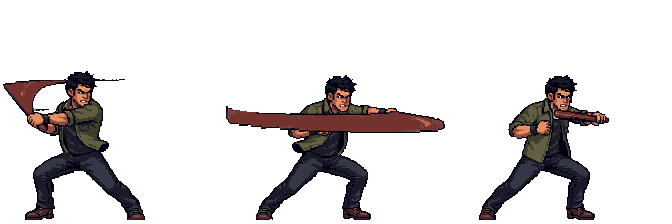
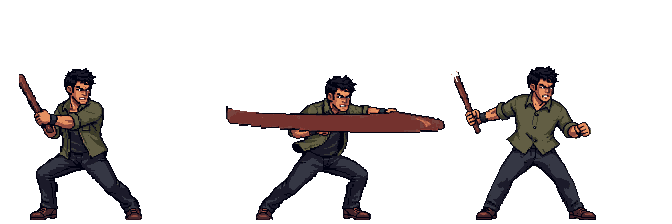
Polish skill animations: animated VFX sheets and cleaner poses
Effects for six skills are now real PixelLab frame animations (bird wing
beats, naga fire, running tiger, rock burst, Yama explosion, tornado)
instead of still images. The double-slash skill now really swings back
right to left, the leap's fall/landing frames were replaced and the grey
smear removed, skills leave short afterimages, and effects show from the
impact frame.

Claude-Session: https://claude.ai/code/session_01PSBtvsuZFS3pknb8ULkNKy

diff --git a/web/game.js b/web/game.js
@@ -55,6 +55,7 @@
     const names = new Set([M.background, M.portrait, M.monster.image]);
     for (const a of Object.values(M.player.anims)) names.add(a.image);
     for (const v of Object.values(M.vfx)) names.add(v);
+    for (const v of Object.values(M.vfxAnim)) names.add(v.image);
     return Promise.all([...names].map((src) => new Promise((res, rej) => {
       const img = new Image();
       img.onload = () => { images[src] = img; res(); };
@@ -213,6 +214,7 @@
       queued: false, hitDone: false, sinceAttack: 99,
       hurtT: 0, invulnT: 0,
       skill: null,          // skill being cast: { def, t, hitIdx, ... }
+      ghosts: [], ghostT: 0, // afterimages left behind while casting
     };
   }
 
@@ -838,30 +840,37 @@
     state.shots = state.shots.filter((s) => !s.done);
   }
 
+  // Effects are PixelLab sprite sheets (M.vfxAnim) played frame by frame, with a little
+  // scale/fade tweening on top; keys without a sheet fall back to the still image.
   function drawVfx(camX, layer) {
     for (const v of state.vfx) {
       if ((v.key === "storm") !== (layer === "back")) continue;
-      const img = images[M.vfx[v.key]];
+      const anim = M.vfxAnim[v.key];
+      const img = images[anim ? anim.image : M.vfx[v.key]];
       if (!img) continue;
+      const fw = anim ? anim.frameW : img.width, fh = anim ? anim.frameH : img.height;
       const k = v.t / v.life;
+      let frame = 0;
+      if (anim) frame = anim.loop ? Math.floor(v.t * anim.fps) % anim.frames : Math.min(anim.frames - 1, Math.floor(k * anim.frames));
       const ease = 1 - Math.pow(1 - Math.min(1, k * 1.6), 3);
       const sc = v.s0 + (v.s1 - v.s0) * ease;
-      let alpha = k < 0.12 ? k / 0.12 : k > 0.65 ? 1 - (k - 0.65) / 0.35 : 1;
-      if (v.flicker) alpha *= 0.82 + 0.18 * Math.sin(v.t * 60);
+      // effects appear at once (they spawn on the impact freeze), then fade out
+      let alpha = k < 0.1 ? 0.6 + (k / 0.1) * 0.4 : k > 0.7 ? 1 - (k - 0.7) / 0.3 : 1;
+      if (v.flicker && !anim) alpha *= 0.82 + 0.18 * Math.sin(v.t * 60);
       ctx.save();
       ctx.translate(Math.round(v.x - camX), Math.round(v.y));
       if (v.rot) ctx.rotate(v.rot);
-      const sx = (v.stretch ? sc : Math.max(0.4, sc)) * v.flip * (v.key === "storm" && Math.floor(v.t * 16) % 2 ? -1 : 1);
+      const sx = (v.stretch ? sc : Math.max(0.4, sc)) * v.flip;
       const sy = v.stretch ? Math.min(1.2, 0.7 + sc * 0.3) : sc;
       ctx.scale(sx, sy);
-      const ox = v.anchor === "left" ? 0 : -img.width / 2;
-      const oy = v.anchor === "bottom" ? -img.height : -img.height / 2;
+      const ox = v.anchor === "left" ? 0 : -fw / 2;
+      const oy = v.anchor === "bottom" ? -fh : -fh / 2;
       ctx.globalAlpha = alpha;
-      ctx.drawImage(img, ox, oy);
+      ctx.drawImage(img, frame * fw, 0, fw, fh, ox, oy, fw, fh);
       if (v.glow) {
         ctx.globalCompositeOperation = "lighter";
-        ctx.globalAlpha = alpha * 0.35;
-        ctx.drawImage(img, ox, oy);
+        ctx.globalAlpha = alpha * 0.3;
+        ctx.drawImage(img, frame * fw, 0, fw, fh, ox, oy, fw, fh);
       }
       ctx.restore();
     }
@@ -1150,6 +1159,19 @@
       frame = attackFrame(a, p.t);
     } else {
       frame = Math.floor(clamp(p.t / a.duration, 0, 0.999) * a.frames);
+    }
+    // afterimages: recent skill poses fading out behind Kan
+    if (p.skill) {
+      p.ghostT -= 1 / 60;
+      if (p.ghostT <= 0) {
+        p.ghostT = 0.035;
+        p.ghosts.push({ anim: p.anim, frame, x: p.x, y: p.y, facing: p.facing, born: state.time });
+      }
+    }
+    p.ghosts = p.ghosts.filter((g) => state.time - g.born < 0.16);
+    for (const g of p.ghosts) {
+      const age = (state.time - g.born) / 0.16;
+      drawFrame(M.player.anims[g.anim], g.frame, g.x - camX, g.y, g.facing, M.player.scale, 0.35 * (1 - age));
     }
     drawShadow(p.x - camX, GROUND_Y, 26 - Math.min(14, (GROUND_Y - p.y) / 8));
     const blink = p.invulnT > 0 && Math.floor(p.invulnT * 20) % 2 === 0 ? 0.45 : 1;

diff --git a/web/assets/manifest.js b/web/assets/manifest.js
@@ -13,6 +13,56 @@ window.MANIFEST = {
   "yama": "assets/vfx_yama.png",
   "storm": "assets/vfx_storm.png"
  },
+ "vfxAnim": {
+  "bird": {
+   "image": "assets/vfx_bird_anim.png",
+   "fps": 16,
+   "loop": true,
+   "frameW": 129,
+   "frameH": 96,
+   "frames": 9
+  },
+  "naga": {
+   "image": "assets/vfx_naga_anim.png",
+   "fps": 18,
+   "loop": true,
+   "frameW": 168,
+   "frameH": 78,
+   "frames": 9
+  },
+  "tiger": {
+   "image": "assets/vfx_tiger_anim.png",
+   "fps": 18,
+   "loop": true,
+   "frameW": 149,
+   "frameH": 84,
+   "frames": 6
+  },
+  "rocks": {
+   "image": "assets/vfx_rocks_anim.png",
+   "fps": 0,
+   "loop": false,
+   "frameW": 148,
+   "frameH": 103,
+   "frames": 9
+  },
+  "yama": {
+   "image": "assets/vfx_yama_anim.png",
+   "fps": 0,
+   "loop": false,
+   "frameW": 158,
+   "frameH": 120,
+   "frames": 9
+  },
+  "storm": {
+   "image": "assets/vfx_storm_anim.png",
+   "fps": 16,
+   "loop": true,
+   "frameW": 137,
+   "frameH": 154,
+   "frames": 9
+  }
+ },
  "portraitCrop": {
   "x": 92,
   "y": 50,
@@ -238,7 +288,7 @@ window.MANIFEST = {
     "duration": 0.6,
     "bottoms": [
      169,
-     159,
+     166,
      222
     ]
    }

diff --git a/tools/build_manifest.py b/tools/build_manifest.py
@@ -32,10 +32,13 @@ ANIMS = {
     "sk_quake": dict(duration=0.48),
     "sk_storm": dict(duration=0.95),
     # the leap: rising, falling and landed poses pinned by their feet
-    "sk_yama": dict(duration=0.6, bottoms=[169, 159, 222]),
+    "sk_yama": dict(duration=0.6, bottoms=[169, 166, 222]),
 }
 
 VFX = ["bird", "naga", "chakra", "tiger", "rocks", "yama", "storm"]
+# animated effect sheets from tools/fetch_vfx.py: key -> (fps, loop)
+VFX_ANIM = {"bird": (16, True), "naga": (18, True), "tiger": (18, True),
+            "rocks": (0, False), "yama": (0, False), "storm": (16, True)}
 
 anims = {}
 for name, cfg in ANIMS.items():
@@ -52,12 +55,22 @@ for name, cfg in ANIMS.items():
         a["bottoms"] = [strip.crop((i * FRAME, 0, (i + 1) * FRAME, FRAME)).getbbox()[3] for i in range(n)]
     anims[name] = a
 
+import os
+
+vfx_anim = {}
+for key, (fps, loop) in VFX_ANIM.items():
+    meta = f"web/assets/vfx_{key}_anim.json"
+    if os.path.exists(meta):
+        info = json.load(open(meta))
+        vfx_anim[key] = {"image": f"assets/vfx_{key}_anim.png", "fps": fps, "loop": loop, **info}
+
 manifest = {
     "worldWidth": 2600,
     "groundY": 318,
     "background": "assets/bg_village.png",
     "portrait": "assets/kan_portrait.png",
     "vfx": {k: f"assets/vfx_{k}.png" for k in VFX},
+    "vfxAnim": vfx_anim,
     "portraitCrop": {"x": 92, "y": 50, "w": 120, "h": 120},
     "player": {"scale": 0.62, "anims": anims, "reach": [96, 90, 104, 98, 118]},
     "monster": {"image": "assets/monster_yak.png", "anchorX": 84, "anchorY": 160, "scale": 0.85,

diff --git a/tools/fetch_vfx.py b/tools/fetch_vfx.py
@@ -1,0 +1,40 @@
+"""Download a PixelLab effect animation, trim all frames to their shared bounds, and pack a strip.
+
+usage: python3 tools/fetch_vfx.py <job_id> <key>
+writes web/assets/vfx_<key>_anim.png and web/assets/vfx_<key>_anim.json ({frameW, frameH, frames})
+"""
+import io
+import json
+import sys
+import urllib.request
+
+from PIL import Image
+
+BASE = "https://api.pixellab.ai/mcp/images"
+
+
+def main():
+    job, key = sys.argv[1], sys.argv[2]
+    frames, i = [], 0
+    while True:
+        try:
+            with urllib.request.urlopen(f"{BASE}/{job}/download?index={i}", timeout=60) as r:
+                frames.append(Image.open(io.BytesIO(r.read())).convert("RGBA"))
+        except Exception:
+            break
+        i += 1
+    boxes = [f.getbbox() for f in frames if f.getbbox()]
+    box = (min(b[0] for b in boxes), min(b[1] for b in boxes), max(b[2] for b in boxes), max(b[3] for b in boxes))
+    frames = [f.crop(box) for f in frames]
+    w, h = frames[0].size
+    strip = Image.new("RGBA", (w * len(frames), h))
+    for n, f in enumerate(frames):
+        strip.paste(f, (n * w, 0))
+    strip.save(f"web/assets/vfx_{key}_anim.png")
+    with open(f"web/assets/vfx_{key}_anim.json", "w") as fh:
+        json.dump({"frameW": w, "frameH": h, "frames": len(frames)}, fh)
+    print(key, len(frames), "frames of", w, "x", h)
+
+
+if __name__ == "__main__":
+    main()
